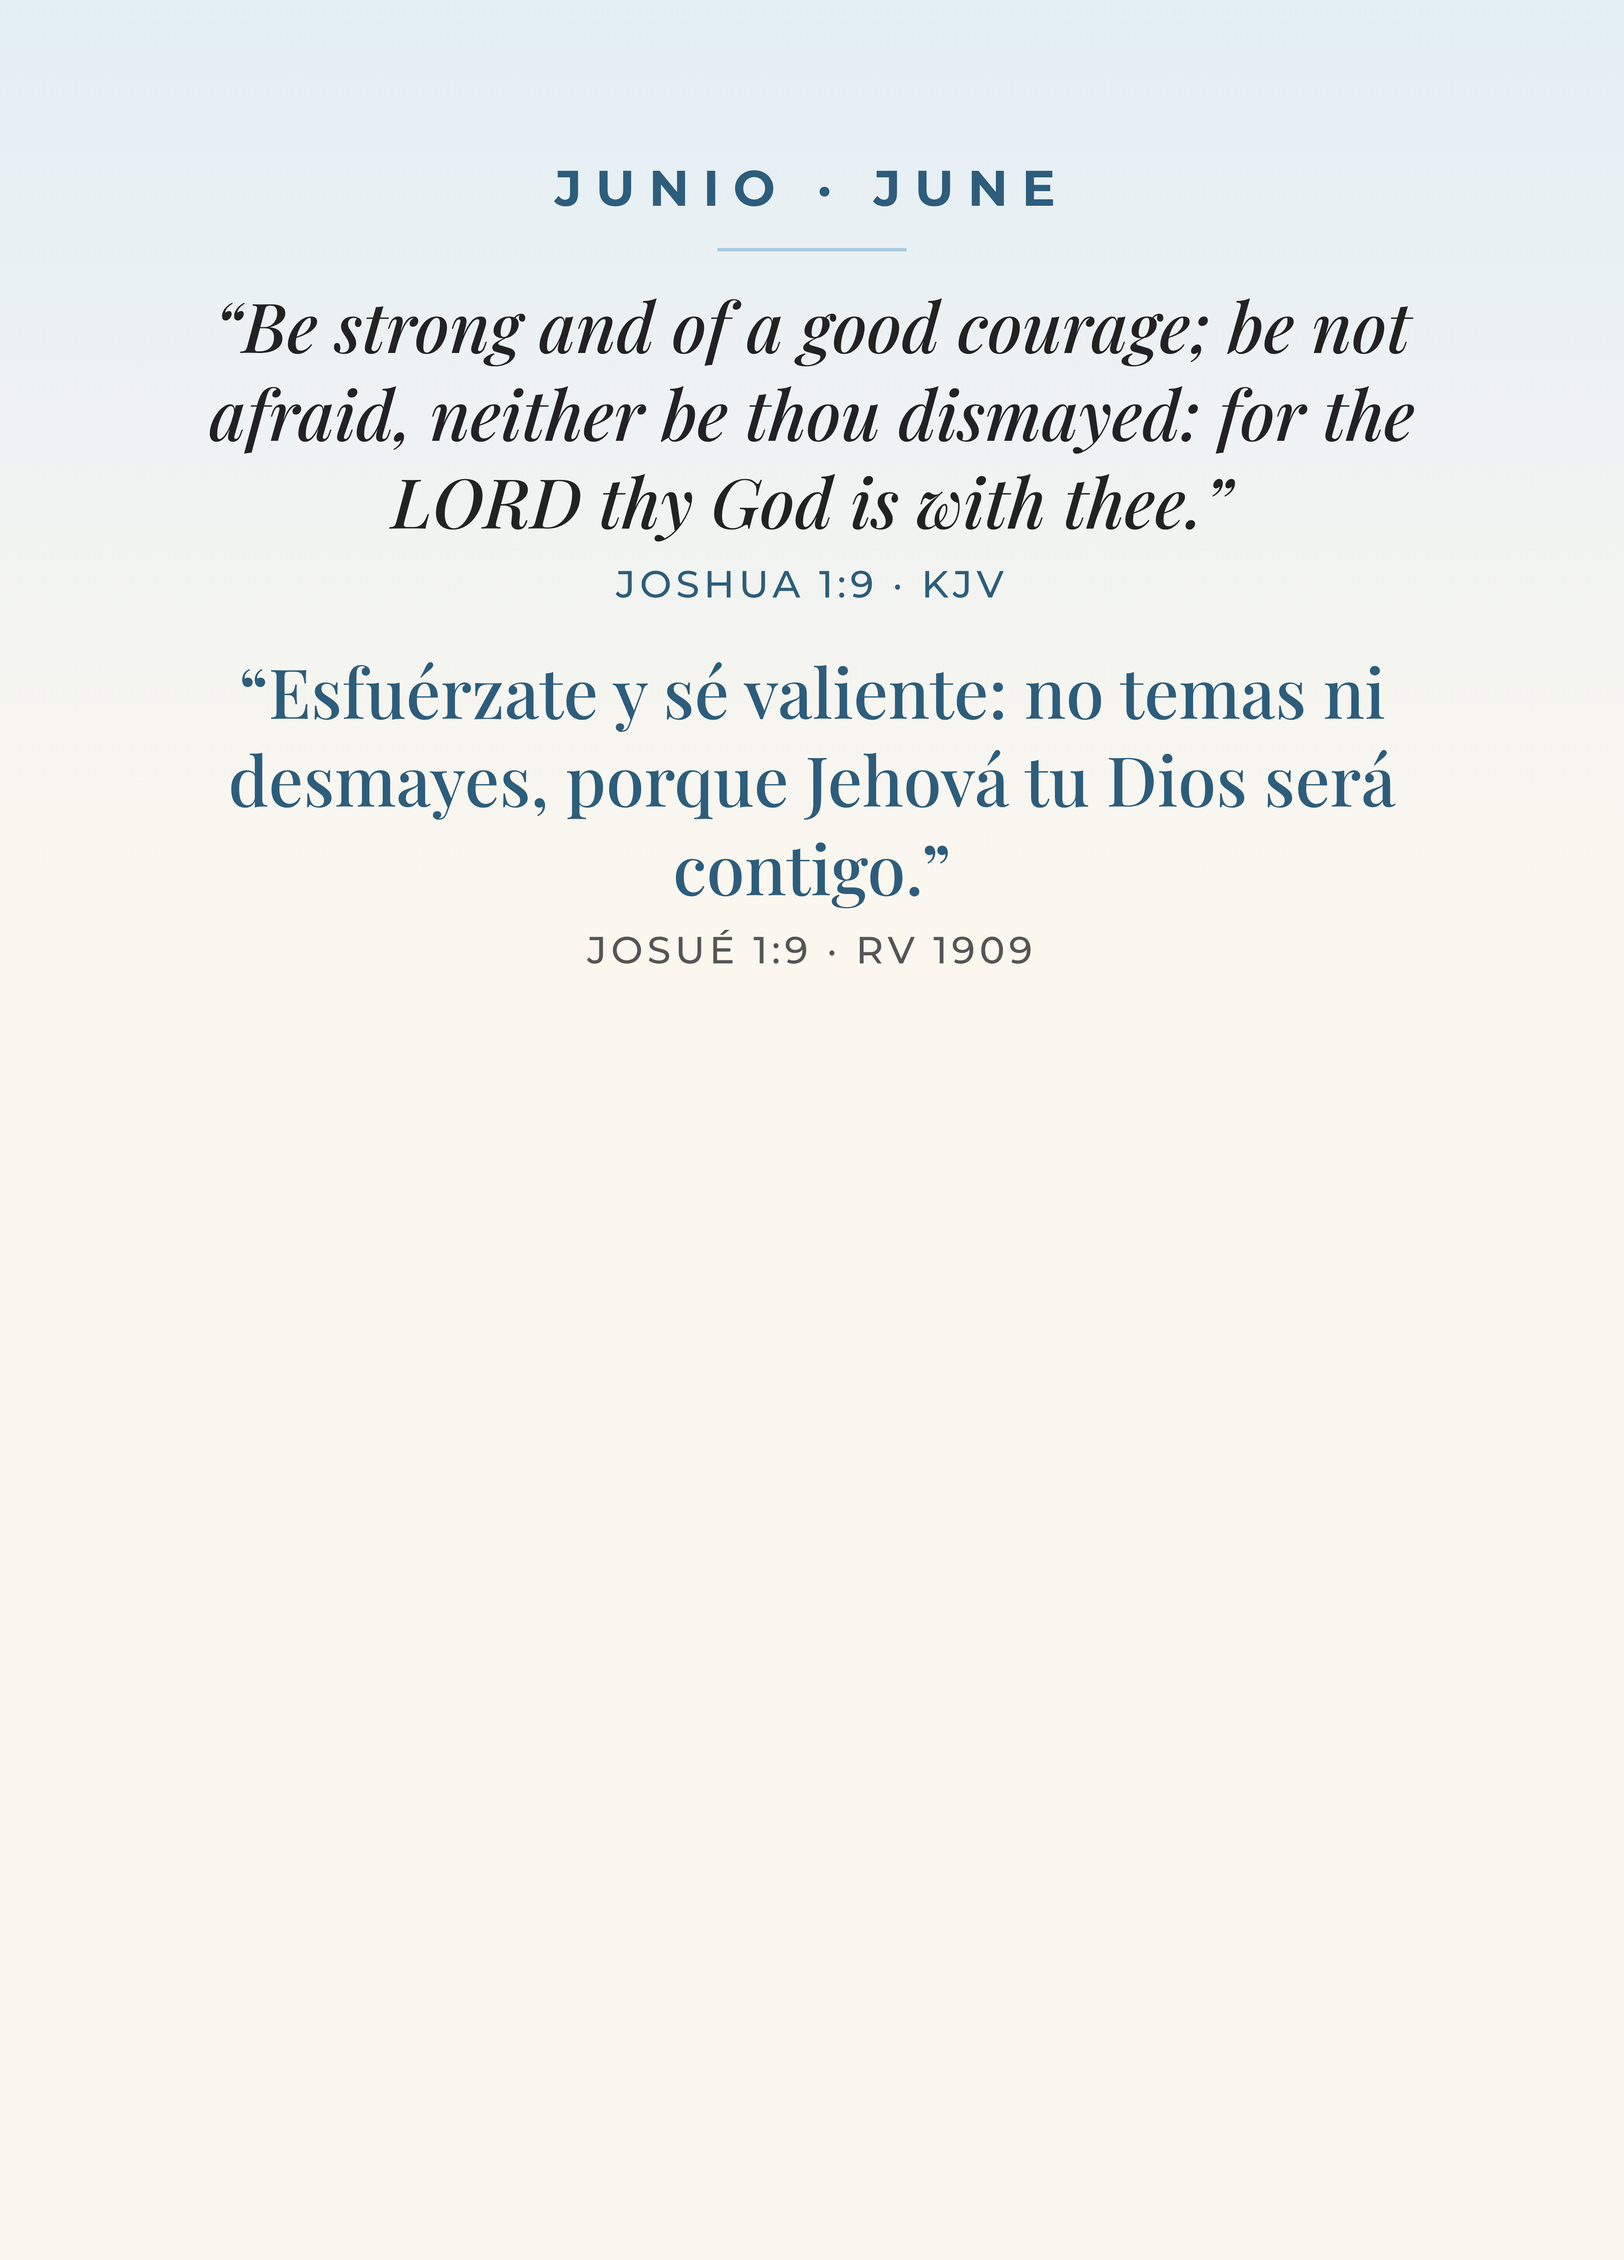
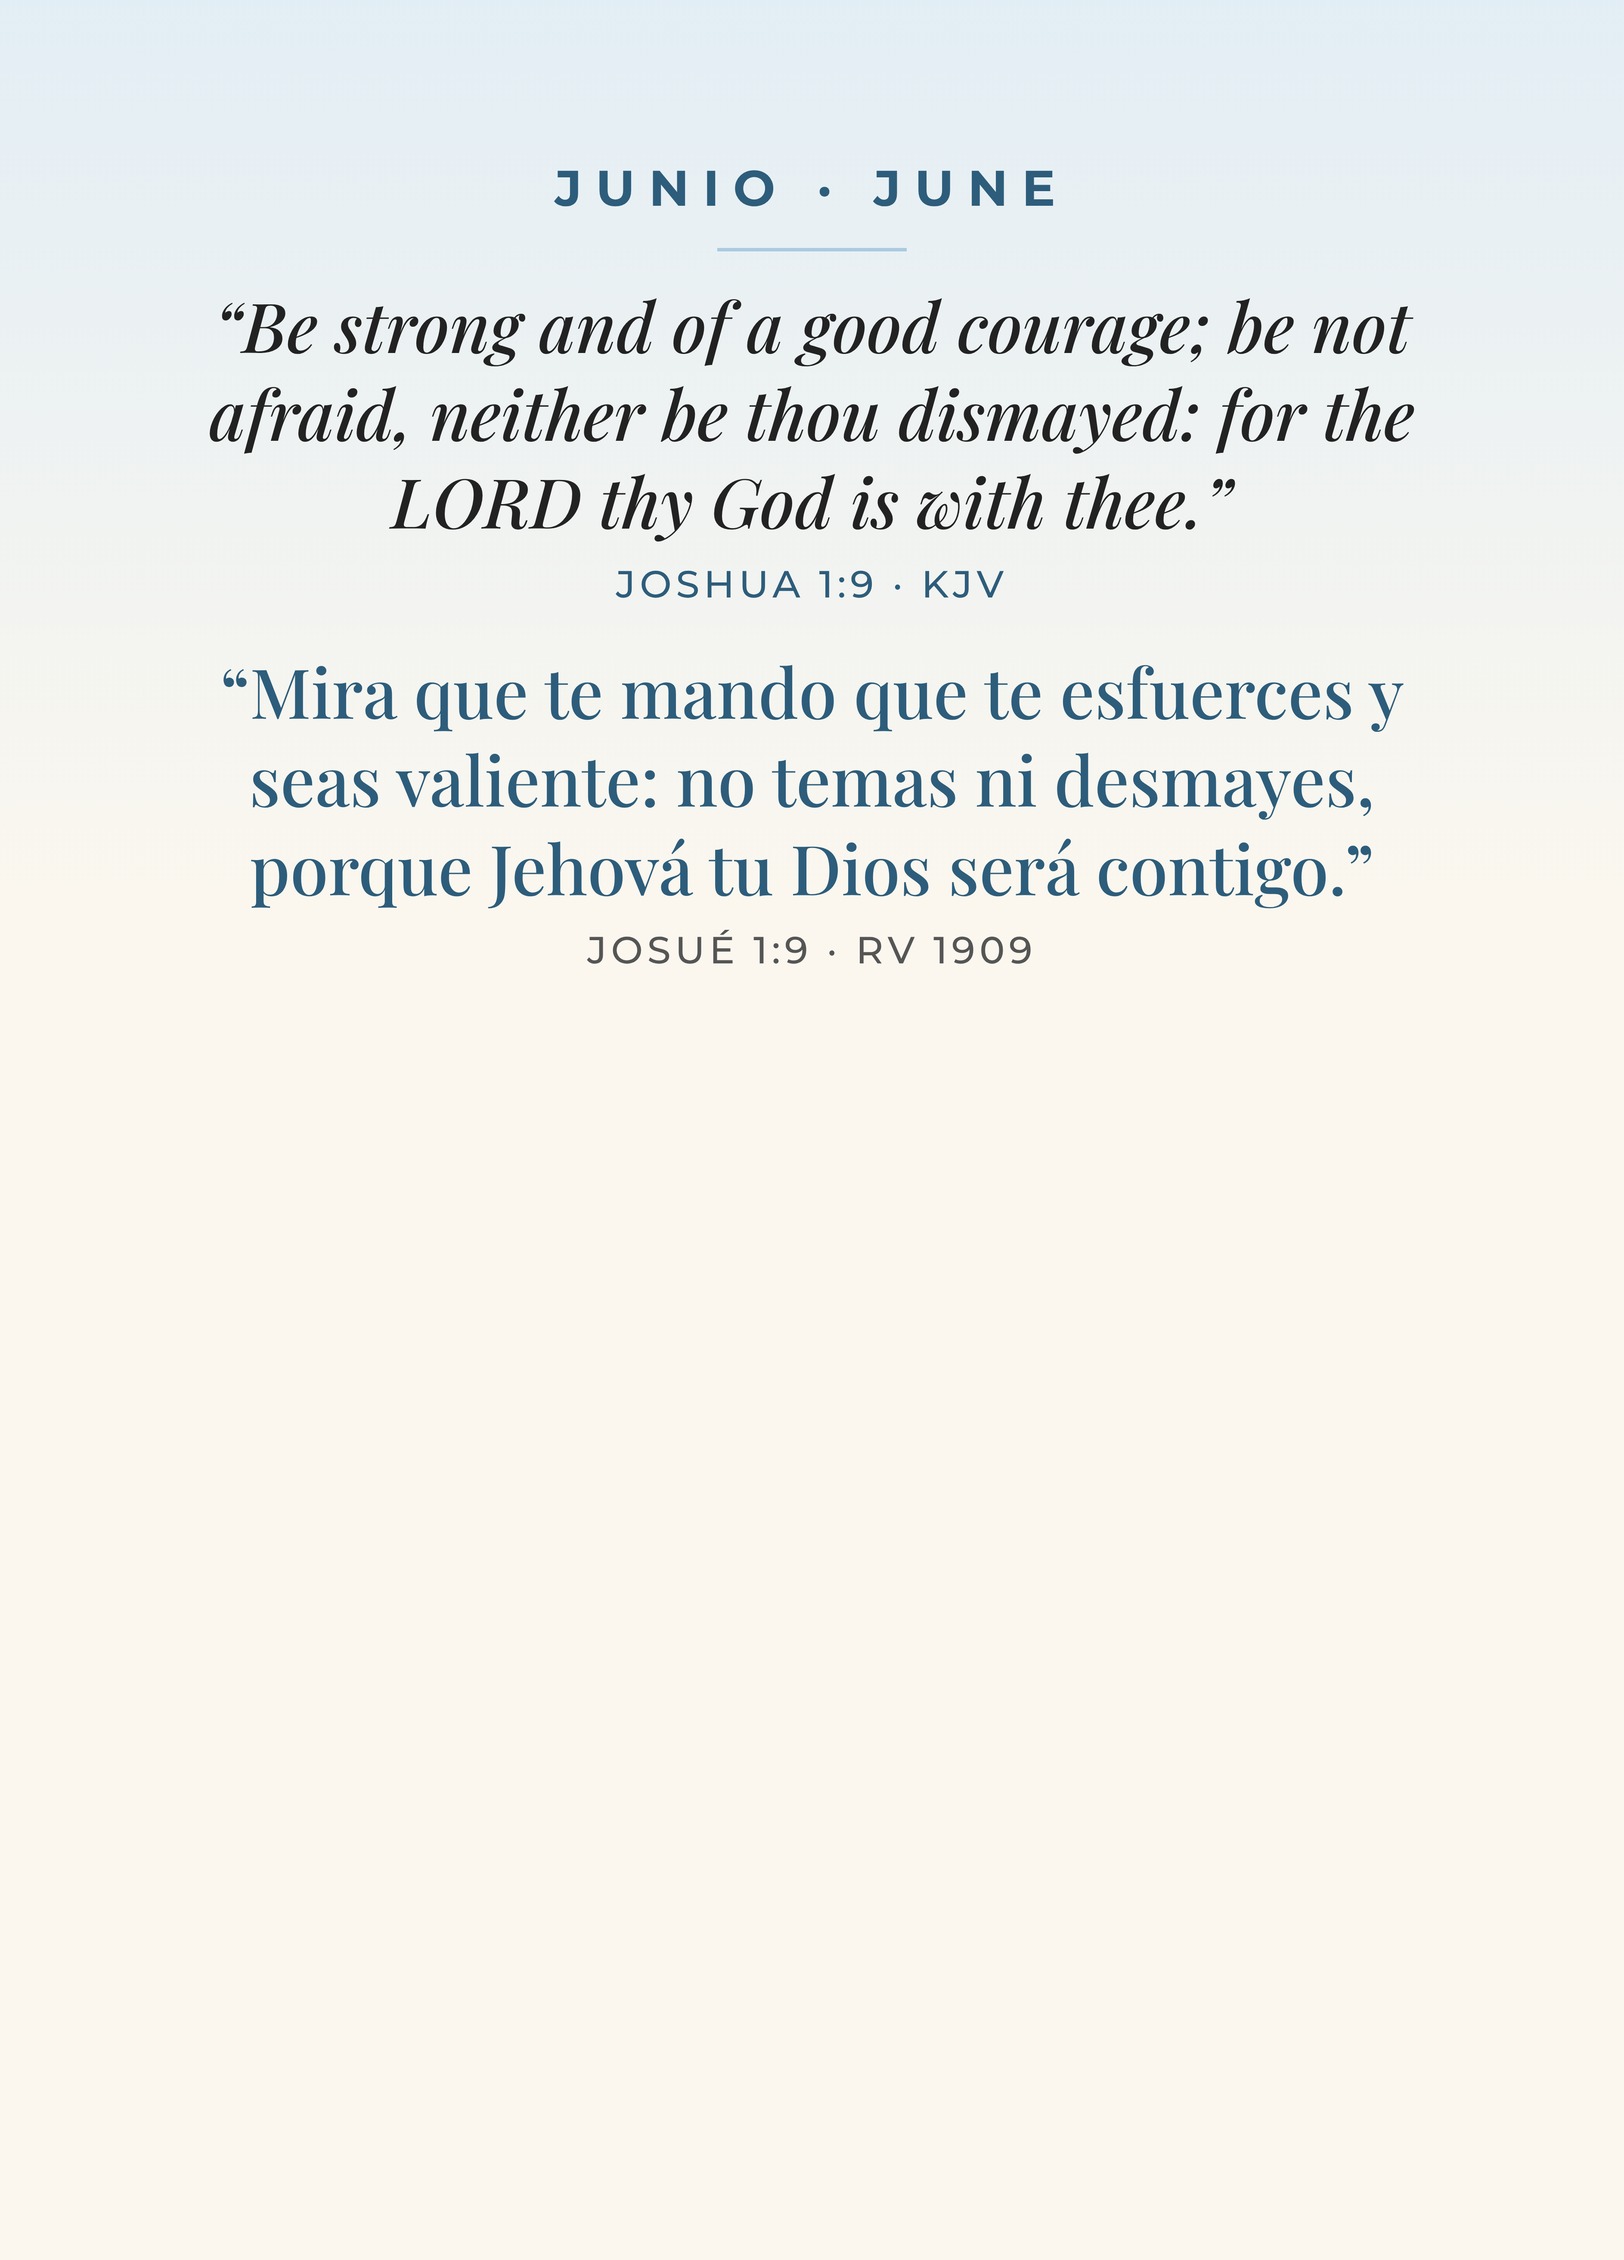
Calendar June: Josué 1:9 exact RV1909 wording
Claude-Session: https://claude.ai/code/session_016J2nU7A2YAX41gT6f3cs1D

Changed region(s): [[0.1551, 0.2811, 0.8685, 0.4061]]

diff --git a/docs/unity-keepsakes/design-scripts/batch4/designs.py b/docs/unity-keepsakes/design-scripts/batch4/designs.py
@@ -16,7 +16,7 @@ M=[('january','Enero','January','#1f3a5f','#c9a227','They are new every morning:
  ('march','Marzo','March','#3f6b4f','#b7c9a8','I will praise thee; for I am fearfully and wonderfully made.','Te alabaré; porque formidables, maravillosas son tus obras.','Psalm 139:14','Salmos 139:14'),
  ('april','Abril','April','#6b4c8a','#d8c7e6','He is not here: for he is risen, as he said.','No está aquí; porque ha resucitado, como dijo.','Matthew 28:6','Mateo 28:6'),
  ('may','Mayo','May','#a0456b','#f0c9d6','Strength and honour are her clothing; and she shall rejoice in time to come.','Fortaleza y honor son su vestidura; y en el día postrero reirá.','Proverbs 31:25','Proverbios 31:25'),
- ('june','Junio','June','#2d5d7b','#a9cbe0','Be strong and of a good courage; be not afraid, neither be thou dismayed: for the LORD thy God is with thee.','Esfuérzate y sé valiente: no temas ni desmayes, porque Jehová tu Dios será contigo.','Joshua 1:9','Josué 1:9'),
+ ('june','Junio','June','#2d5d7b','#a9cbe0','Be strong and of a good courage; be not afraid, neither be thou dismayed: for the LORD thy God is with thee.','Mira que te mando que te esfuerces y seas valiente: no temas ni desmayes, porque Jehová tu Dios será contigo.','Joshua 1:9','Josué 1:9'),
  ('july','Julio','July','#7a1f2b','#f2d0a4','Stand fast therefore in the liberty wherewith Christ hath made us free.','Estad, pues, firmes en la libertad con que Cristo nos hizo libres.','Galatians 5:1','Gálatas 5:1'),
  ('august','Agosto','August','#b5652b','#f3d9b1','They that wait upon the LORD shall renew their strength; they shall mount up with wings as eagles.','Los que esperan a Jehová tendrán nuevas fuerzas; levantarán las alas como águilas.','Isaiah 40:31','Isaías 40:31'),
  ('september','Septiembre','September','#4a5d23','#d6dcae','If any man be in Christ, he is a new creature: old things are passed away; behold, all things are become new.','Si alguno está en Cristo, nueva criatura es: las cosas viejas pasaron; he aquí todas son hechas nuevas.','2 Corinthians 5:17','2 Corintios 5:17'),
